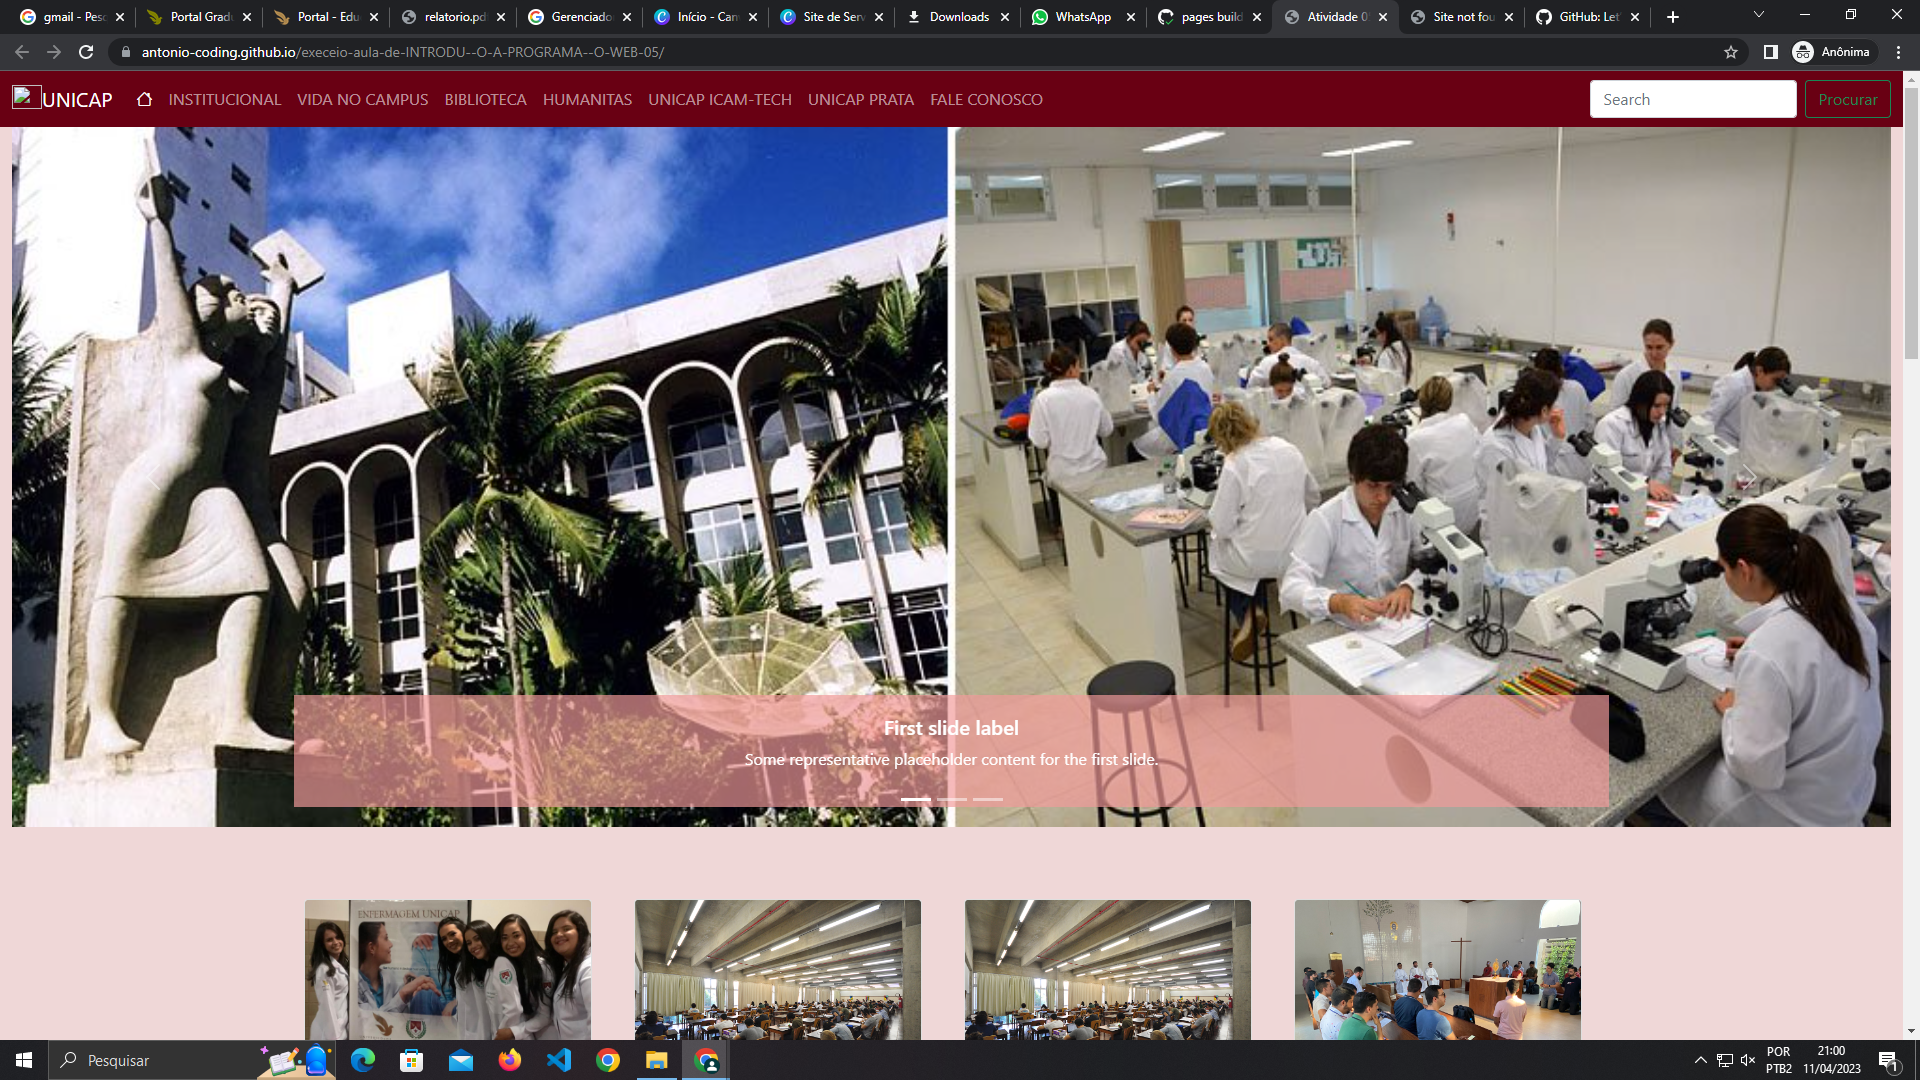
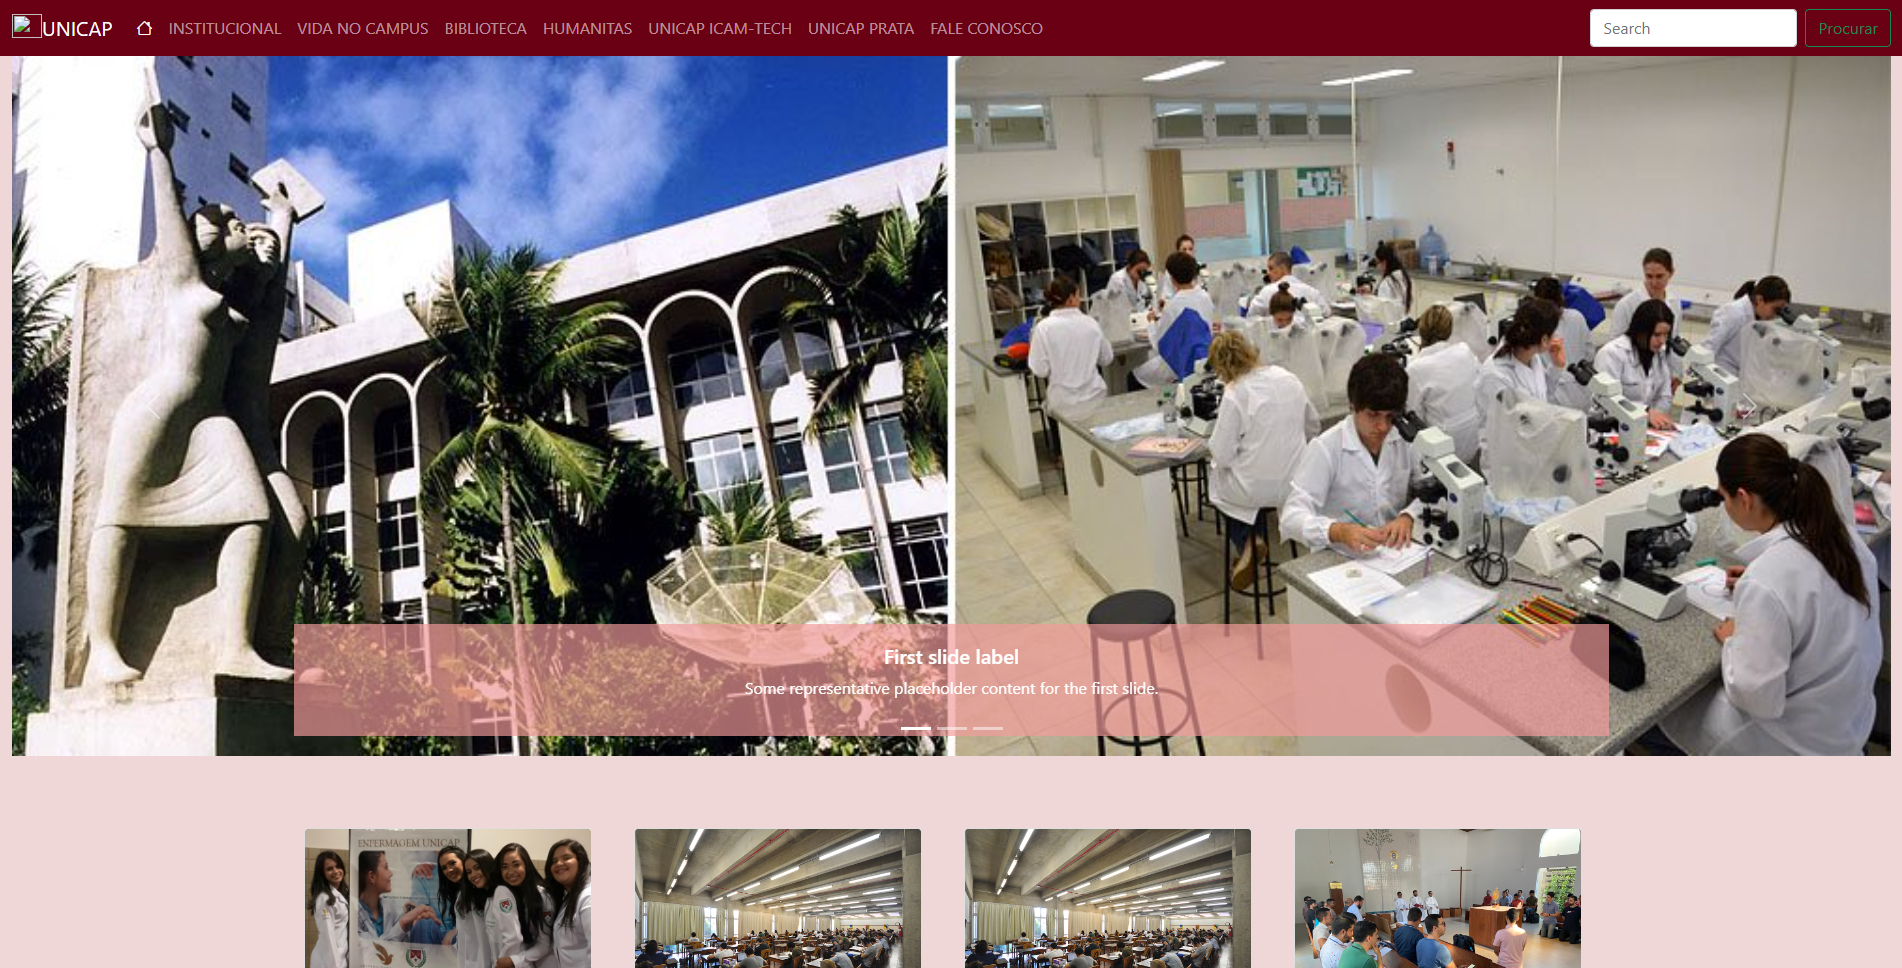
categorizando funções

diff --git a/index.html b/index.html
@@ -74,22 +74,24 @@
                   <use xlink:href="node_modules/bootstrap-icons/bootstrap-icons.svg#folder2-open" />
                 </svg>Projetos</a>
             </li>
-
           </ul>
         </div>
       </div>
-
-
   </div>
   <!--main-->
   <main>
 
+    <!--carousel-projetos-->
     <div class="container-fluid">
-
-      <!--carousel-->
       <div id="carouselExample" class="carousel slide">
         <div class="carousel-inner">
           <div class="carousel-item active">
+            <img src="img/site01.png" class="d-block w-100" alt="...">
+          </div>
+          <div class="carousel-item">
+            <img src="img/site01.png" class="d-block w-100" alt="...">
+          </div>
+          <div class="carousel-item">
             <img src="img/site01.png" class="d-block w-100" alt="...">
           </div>
           <div class="carousel-item">
@@ -108,8 +110,38 @@
       </div>
     </div>
 
-    <footer >
-      <h1>hello world</h1>
+    <!--redes-->
+    <div class="container">
+      <h2>redes</h2>
+    </div>
+
+    <!--proficiências-->
+    <div class="container">
+      <h2>proficiências</h2>
+    </div>
+
+    <footer>
+      <div class="container">
+        <h3>Antônio Thiago Neto</h3>
+        <p>desenvolvedor</p>
+        <img src="img/chronotrigger.gif" alt="">
+      </div>
+      <div class="container">
+        <h4>Cidade</h4>
+        <p>Recife-PE,Brasil</p>
+        <h4>E-Mail</h4>
+        <p>atn.coding@gmail.com </p>
+        <p>thiagoneto.arq@gmail.com </p>
+        <p>antonio.00000849657@unicap.br</p>
+        <h4>Telefone</h4>
+        <p>(81)97901-6444</p>
+      </div>
+      <div class="container">
+        <p>links</p>
+        <p>links</p>
+        <p>links</p>
+        <p>links</p>
+      </div>
     </footer>
   </main>
 </body>
